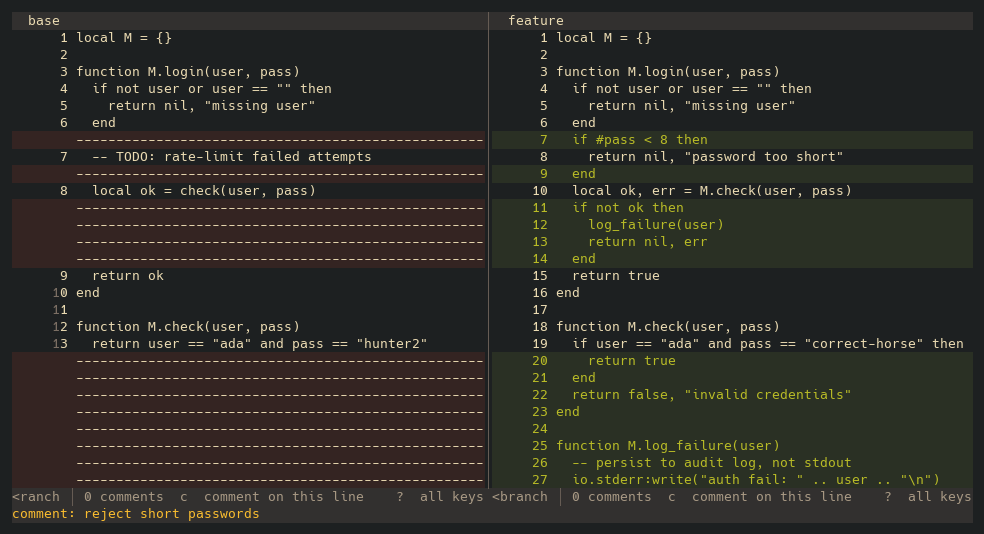
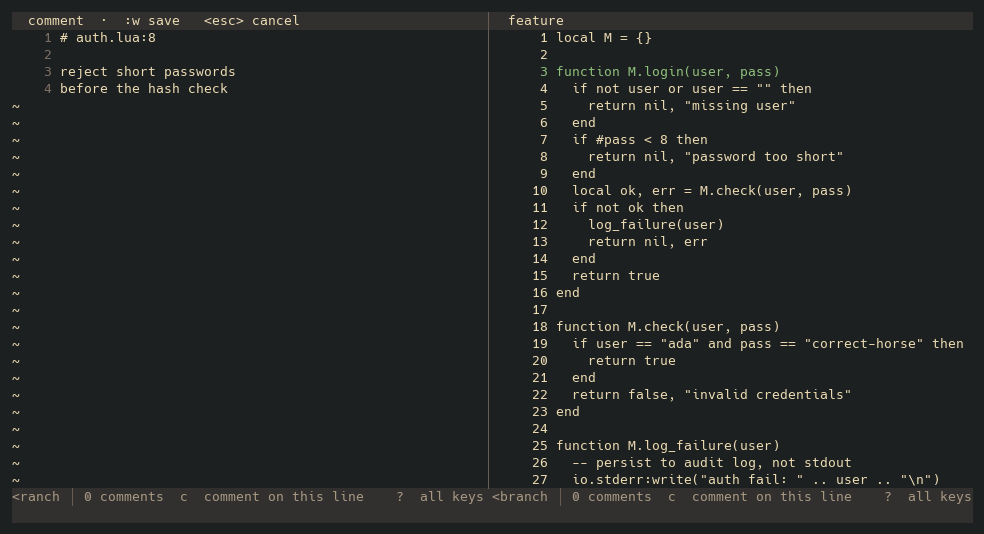
Open comments in a buffer in the other pane
c on a line or a visual range replaces the other diff pane with a
markdown buffer headed by the file and line range, the way octo.nvim
opens its thread buffer. :w saves the comment, <esc> cancels, and the
diff pane comes back either way.

diff --git a/README.md b/README.md
@@ -6,7 +6,7 @@ A multiplexer-agnostic Neovim plugin that brings [herdr-reviewr](https://github.
 
 ![Every key, behind `?`.](assets/keys.png)
 
-![Adding a comment: `c` on a line opens the prompt, and the comment lands above that line.](assets/comment.png)
+![Adding a comment. `c` on a line, or a visual selection, opens a buffer in the other pane. `:w` saves it, `<esc>` cancels.](assets/comment.png)
 
 ## Features
 
